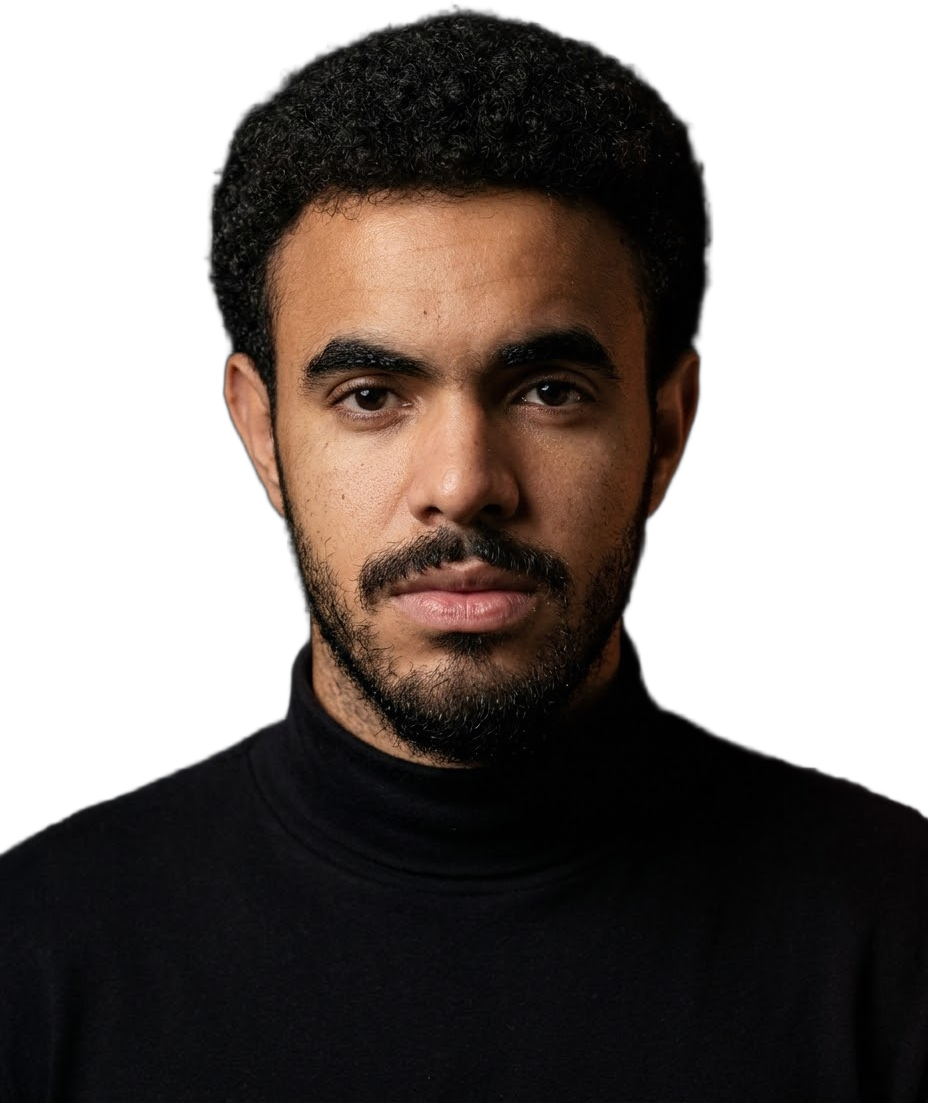
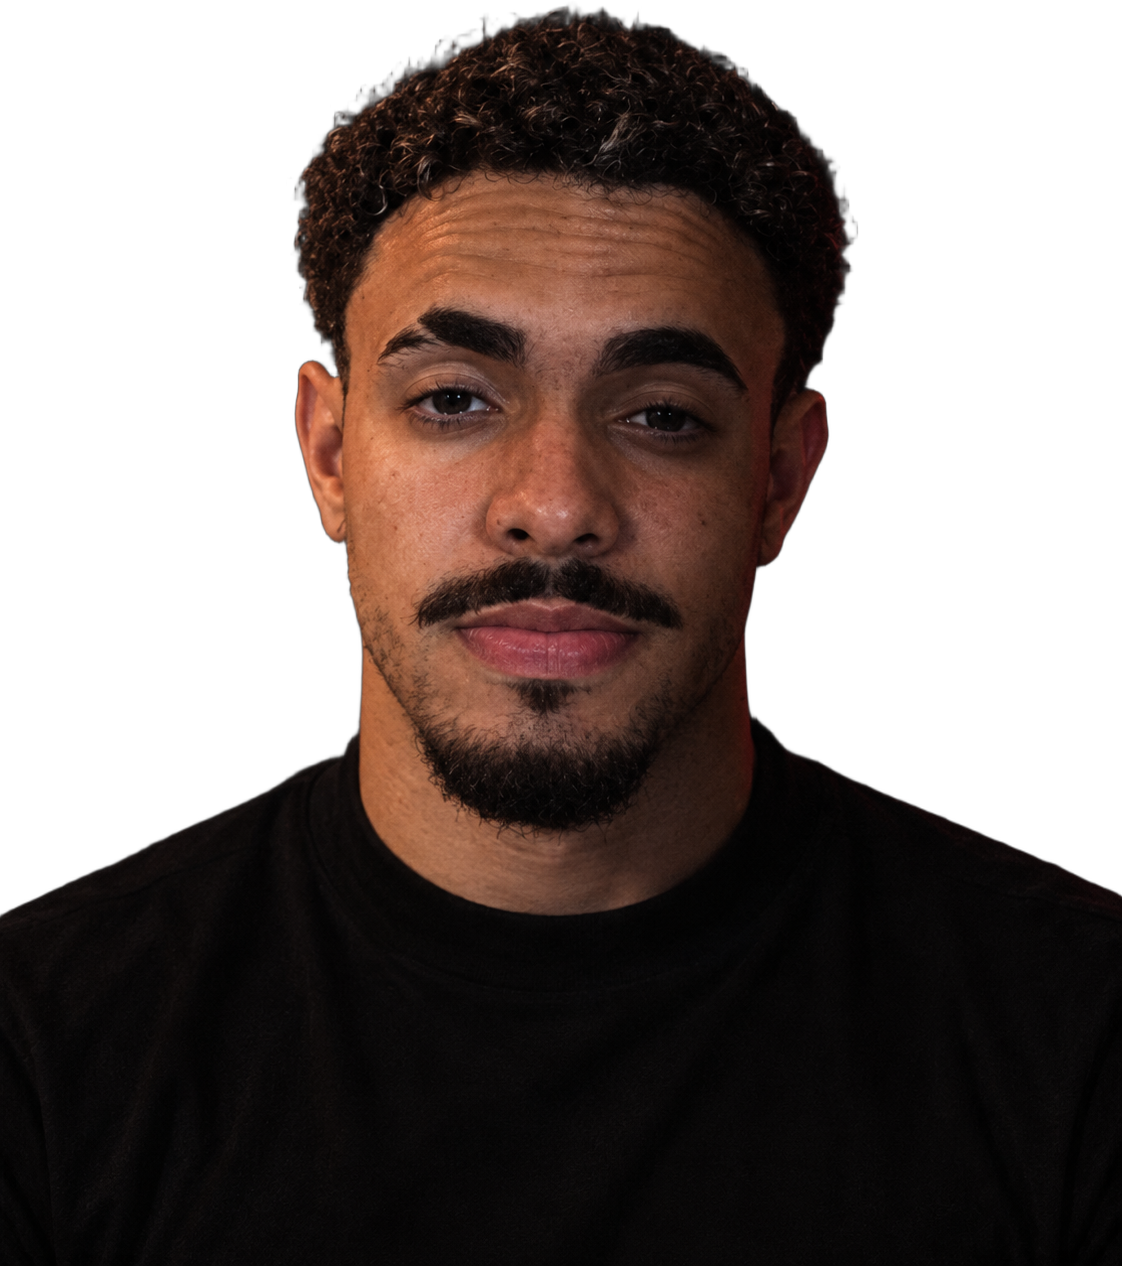
Teste: nova foto no hero
A foto anterior fica guardada em assets/guilherme-v1.* e assets/og-v1.jpg.

Claude-Session: https://claude.ai/code/session_011vhqJecGZSdnfSJHLURew9

Changed region(s): [[0.0, 0.0, 1.0, 0.7706]]

diff --git a/index.html b/index.html
@@ -91,7 +91,7 @@
       <figure class="hero-photo">
         <picture>
           <source srcset="/assets/guilherme.webp" type="image/webp">
-          <img src="/assets/guilherme.png" alt="Foto de Guilherme Ferreira" width="928" height="1103" fetchpriority="high">
+          <img src="/assets/guilherme.png" alt="Foto de Guilherme Ferreira" width="1122" height="1266" fetchpriority="high">
         </picture>
       </figure>
 
